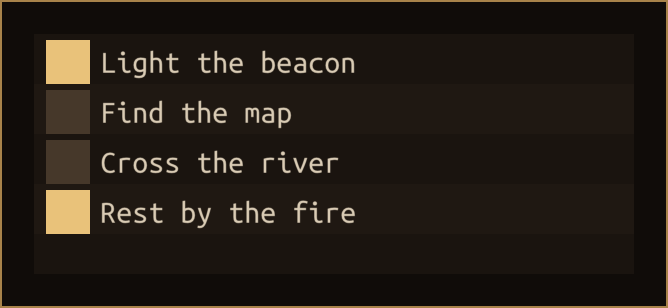
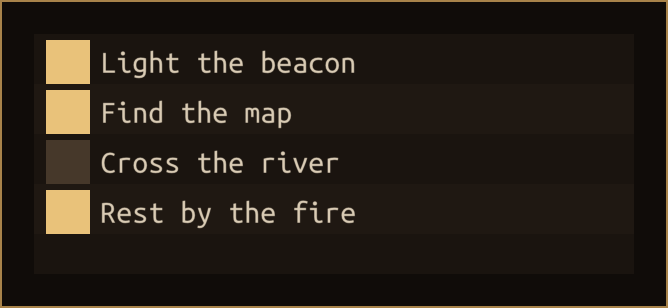
Bind each quest's check box to its Done in the items template example
Quest is a Bindable with a Done property, the template binds the row's
check box to it both ways, and the example sets Done of one quest after
the list is shown: its box checks itself.

Changed region(s): [[0.0599, 0.2922, 0.1497, 0.4383]]

diff --git a/docs/ui-styles.md b/docs/ui-styles.md
@@ -781,11 +781,27 @@ A list box, combo box, tree view or context menu with an `ItemsSource` makes one
 `ItemsTemplate` makes the element shown in each row; without one, the row shows the object's `ToString()` in a
 <a class="ref" href="/docs/ui-glossary/elements/label/">`Label`</a>. The elements a template makes belong to the list, which may dispose or reuse them, so don't keep or move
 them. Setting another
-template on a list box with an items source rebuilds its rows. This template and record are used by the example
-below:
+template on a list box with an items source rebuilds its rows. The template below binds each row's check box to its
+quest, so the row follows the quest and the quest follows the row:
 
 ```csharp
-public sealed record Quest(string Title, bool Done);
+// a quest that tells its bound elements when it is done or not
+public sealed class Quest(string title, bool done) : Bindable
+{
+    private bool _done = done;
+
+    public string Title { get; } = title;
+
+    public bool Done
+    {
+        get => _done;
+        set
+        {
+            _done = value;
+            PropertyChangedInvoke();
+        }
+    }
+}
 
 // makes the element of a row from its source object
 public sealed class QuestTemplate : IItemsTemplate
@@ -794,22 +810,26 @@ public sealed class QuestTemplate : IItemsTemplate
     {
         var quest = (Quest)data;
 
-        return new CheckBox
+        var checkBox = new CheckBox
         {
             Text = quest.Title,
-            Checked = quest.Done,
             DesiredHeight = 22,
             Margin = (6, 3),
             HorizontalAlignment = HorizontalAlignment.Left,
             VerticalAlignment = VerticalAlignment.Top
         };
+
+        // both ways: the box shows Done, and a click on the box sets Done
+        checkBox.CheckedDP.Bind(quest, nameof(Quest.Done), BindingMode.TwoWay);
+
+        return checkBox;
     }
 }
 ```
 
 <figure class="shot">
-  <img src="{{ '/assets/img/ui/styles-items-template.png' | relative_url }}" width="334" height="154" alt="A list of four check boxes: Light the beacon and Rest by the fire checked, Find the map and Cross the river unchecked">
-  <figcaption>Each quest of the source shown as a check box.</figcaption>
+  <img src="{{ '/assets/img/ui/styles-items-template.png' | relative_url }}" width="334" height="154" alt="A list of four check boxes: Light the beacon, Find the map and Rest by the fire checked, Cross the river unchecked">
+  <figcaption>Each quest of the source shown as a check box bound to its Done: setting Done of the second quest checked its box.</figcaption>
 </figure>
 
 ```csharp
@@ -830,6 +850,7 @@ var list = new ListBox("quests")
 };
 
 quests.Add(new Quest("Rest by the fire", true));   // a new row appears
+quests[1].Done = true;                             // its box checks itself
 
 ui.AddElementToRoot(list);
 ```
